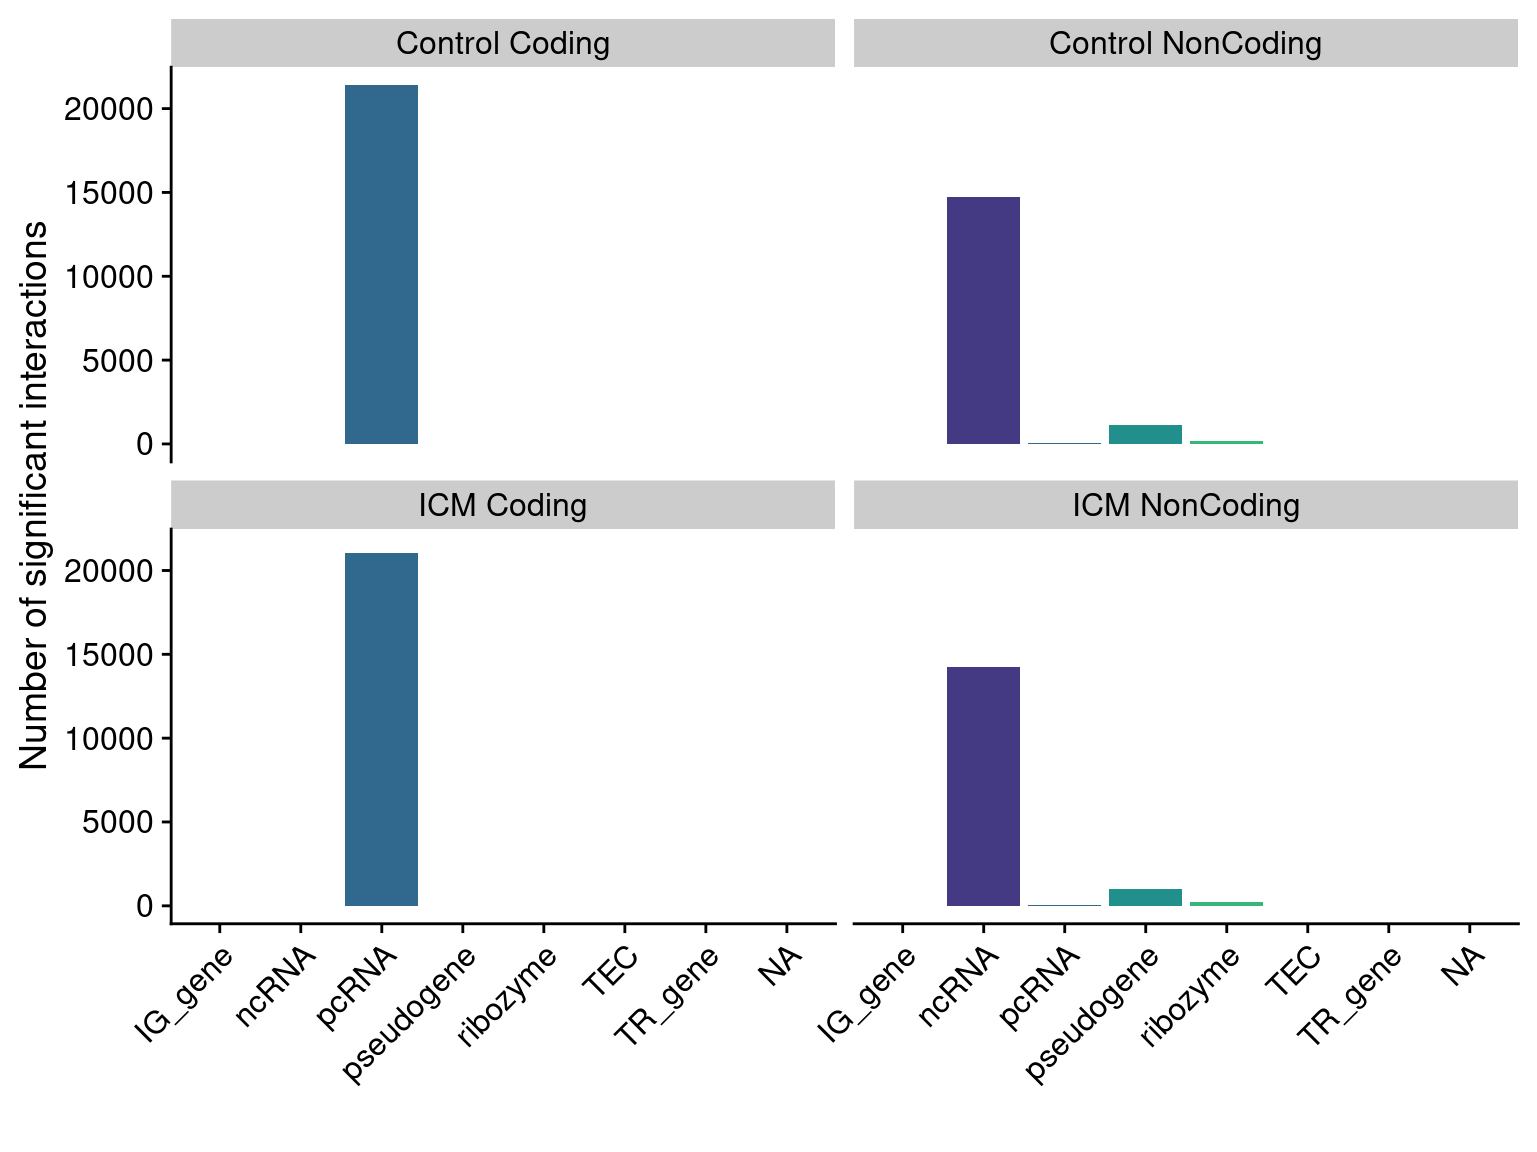
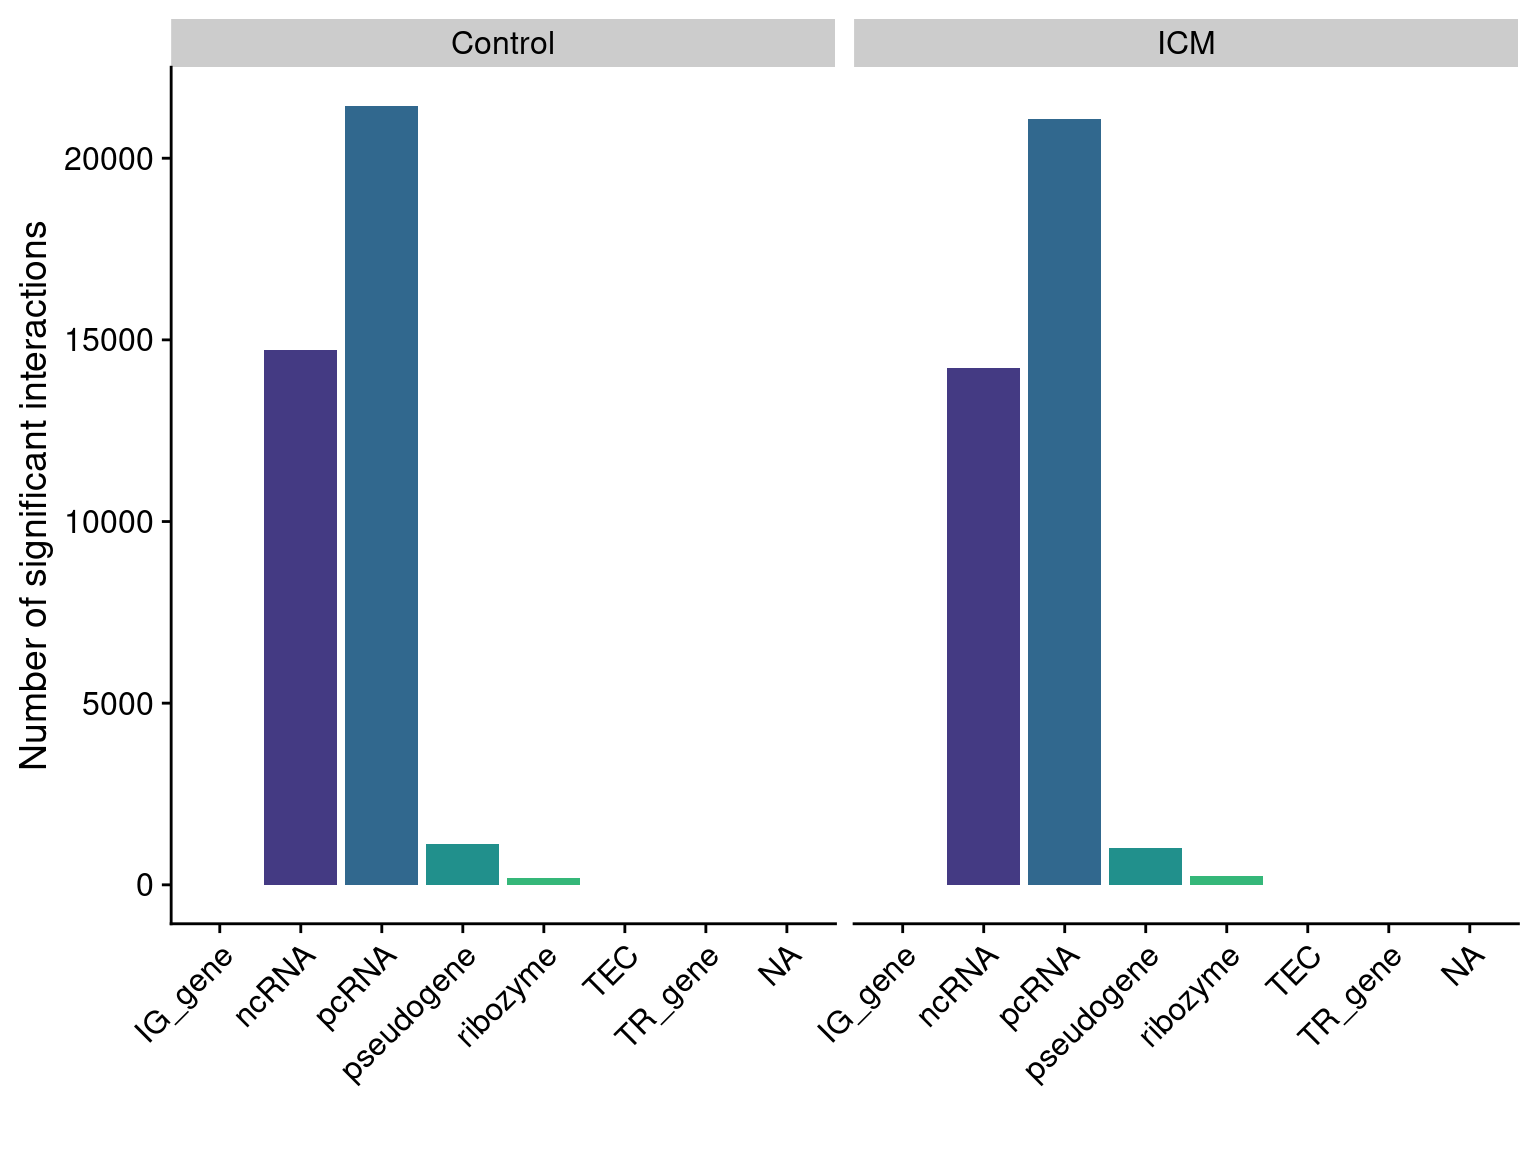
add norm

diff --git a/docs/norm.html b/docs/norm.html
@@ -460,7 +460,7 @@ div.tocify {
 
 <h1 class="title toc-ignore">Analysis of MeDip-Seq data</h1>
 <h4 class="author">Shashank Tiwari</h4>
-<h4 class="date">Most recent update:<br> 2023-05-30</h4>
+<h4 class="date">Most recent update:<br> 2023-06-01</h4>
 
 </div>
 
@@ -501,7 +501,7 @@ div.tocify {
 <span id="cb11-9"><a href="#cb11-9" aria-hidden="true" tabindex="-1"></a><span class="co">#library(ggpubr)</span></span></code></pre></div>
 <pre><code>#&gt;              used   (Mb) gc trigger    (Mb)   max used   (Mb)
 #&gt; Ncells   10851032  579.6   17338411   926.0   11825415  631.6
-#&gt; Vcells 1265377200 9654.1 1653230588 12613.2 1265440173 9654.6
+#&gt; Vcells 1265377192 9654.1 1653230576 12613.2 1265440165 9654.6
 #&gt;        trans          cis bait.to.bait 
 #&gt;        &quot;76%&quot;        &quot;24%&quot;        &quot;25%&quot; 
 #&gt;        trans          cis bait.to.bait 
@@ -533,8 +533,8 @@ div.tocify {
 <span id="cb13-13"><a href="#cb13-13" aria-hidden="true" tabindex="-1"></a>))</span>
 <span id="cb13-14"><a href="#cb13-14" aria-hidden="true" tabindex="-1"></a></span>
 <span id="cb13-15"><a href="#cb13-15" aria-hidden="true" tabindex="-1"></a>DT<span class="sc">::</span><span class="fu">datatable</span>(qc_df, <span class="at">container =</span> sktech, <span class="at">rownames =</span> <span class="cn">TRUE</span>,<span class="at">options =</span> <span class="fu">list</span>(<span class="at">scrollX=</span><span class="cn">TRUE</span>))</span></code></pre></div>
-<div class="datatables html-widget html-fill-item-overflow-hidden html-fill-item" id="htmlwidget-b5d9383c7cc12d4f8531" style="width:100%;height:auto;"></div>
-<script type="application/json" data-for="htmlwidget-b5d9383c7cc12d4f8531">{"x":{"filter":"none","vertical":false,"class":"display","data":[["trans","cis","bait.to.bait"],["76%","24%","25%"],["75%","25%","1%"],["79%","21%","26%"],["78%","22%","1%"],["76%","24%","23%"],["74%","26%","1%"],["80%","20%","24%"],["78%","22%","1%"]],"container":"<table class=\"display\">\n  <thead>\n    <tr>\n      <th rowspan=\"2\">Type<\/th>\n      <th colspan=\"5\">All<\/th>\n      <th colspan=\"5\">Significant<\/th>\n    <\/tr>\n    <tr>\n      <th>Ctrl Coding<\/th>\n      <th>Ctrl NonCoding<\/th>\n      <th>ICM Coding<\/th>\n      <th>ICM NonCoding<\/th>\n      <th>Ctrl Coding<\/th>\n      <th>Ctrl NonCoding<\/th>\n      <th>ICM Coding<\/th>\n      <th>ICM NonCoding<\/th>\n    <\/tr>\n  <\/thead>\n<\/table>","options":{"scrollX":true,"columnDefs":[{"orderable":false,"targets":0}],"order":[],"autoWidth":false,"orderClasses":false}},"evals":[],"jsHooks":[]}</script>
+<div class="datatables html-widget html-fill-item-overflow-hidden html-fill-item" id="htmlwidget-75d6eb5d55358e6624b3" style="width:100%;height:auto;"></div>
+<script type="application/json" data-for="htmlwidget-75d6eb5d55358e6624b3">{"x":{"filter":"none","vertical":false,"class":"display","data":[["trans","cis","bait.to.bait"],["76%","24%","25%"],["75%","25%","1%"],["79%","21%","26%"],["78%","22%","1%"],["76%","24%","23%"],["74%","26%","1%"],["80%","20%","24%"],["78%","22%","1%"]],"container":"<table class=\"display\">\n  <thead>\n    <tr>\n      <th rowspan=\"2\">Type<\/th>\n      <th colspan=\"5\">All<\/th>\n      <th colspan=\"5\">Significant<\/th>\n    <\/tr>\n    <tr>\n      <th>Ctrl Coding<\/th>\n      <th>Ctrl NonCoding<\/th>\n      <th>ICM Coding<\/th>\n      <th>ICM NonCoding<\/th>\n      <th>Ctrl Coding<\/th>\n      <th>Ctrl NonCoding<\/th>\n      <th>ICM Coding<\/th>\n      <th>ICM NonCoding<\/th>\n    <\/tr>\n  <\/thead>\n<\/table>","options":{"scrollX":true,"columnDefs":[{"orderable":false,"targets":0}],"order":[],"autoWidth":false,"orderClasses":false}},"evals":[],"jsHooks":[]}</script>
 <div id="preprocessing" class="section level2">
 <h2>Preprocessing</h2>
 <div class="sourceCode" id="cb14"><pre class="sourceCode r"><code class="sourceCode r"><span id="cb14-1"><a href="#cb14-1" aria-hidden="true" tabindex="-1"></a><span class="co">#read in the data</span></span>
@@ -560,7 +560,7 @@ div.tocify {
 <span id="cb14-21"><a href="#cb14-21" aria-hidden="true" tabindex="-1"></a><span class="fu">colnames</span>(baits) <span class="ot">&lt;-</span> <span class="fu">c</span>(<span class="st">&quot;chr&quot;</span>,<span class="st">&quot;start&quot;</span>,<span class="st">&quot;end&quot;</span>,<span class="st">&quot;bait_name&quot;</span>)</span></code></pre></div>
 <pre><code>#&gt;              used    (Mb) gc trigger    (Mb)   max used    (Mb)
 #&gt; Ncells   10936334   584.1   17338411   926.0   17338411   926.0
-#&gt; Vcells 1908717079 14562.4 6155472300 46962.6 5128160095 39124.8</code></pre>
+#&gt; Vcells 1908717071 14562.4 6155472282 46962.6 5128160087 39124.8</code></pre>
 </div>
 <div id="relationship-between-rna-length-and-detected-interactions"
 class="section level2">
@@ -1033,7 +1033,7 @@ significant interactions.</p>
 <span id="cb27-2"><a href="#cb27-2" aria-hidden="true" tabindex="-1"></a>        <span class="fu">aes</span>(<span class="at">x=</span>gene_biotype_hl,<span class="at">fill=</span>gene_biotype_hl)) <span class="sc">+</span></span>
 <span id="cb27-3"><a href="#cb27-3" aria-hidden="true" tabindex="-1"></a>    <span class="fu">geom_bar</span>()<span class="sc">+</span></span>
 <span id="cb27-4"><a href="#cb27-4" aria-hidden="true" tabindex="-1"></a>    <span class="fu">theme_cowplot</span>()<span class="sc">+</span></span>
-<span id="cb27-5"><a href="#cb27-5" aria-hidden="true" tabindex="-1"></a>  <span class="fu">facet_wrap</span>(<span class="sc">~</span>type)<span class="sc">+</span></span>
+<span id="cb27-5"><a href="#cb27-5" aria-hidden="true" tabindex="-1"></a>  <span class="fu">facet_wrap</span>(<span class="sc">~</span>control)<span class="sc">+</span></span>
 <span id="cb27-6"><a href="#cb27-6" aria-hidden="true" tabindex="-1"></a>    <span class="fu">scale_fill_viridis</span>(<span class="at">discrete=</span>T)<span class="sc">+</span></span>
 <span id="cb27-7"><a href="#cb27-7" aria-hidden="true" tabindex="-1"></a>    <span class="fu">theme</span>(<span class="at">axis.text.x =</span> <span class="fu">element_text</span>(<span class="at">angle =</span> <span class="dv">45</span>, <span class="at">hjust =</span> <span class="dv">1</span>),</span>
 <span id="cb27-8"><a href="#cb27-8" aria-hidden="true" tabindex="-1"></a>            <span class="at">legend.position=</span><span class="st">&quot;none&quot;</span>)<span class="sc">+</span></span>
